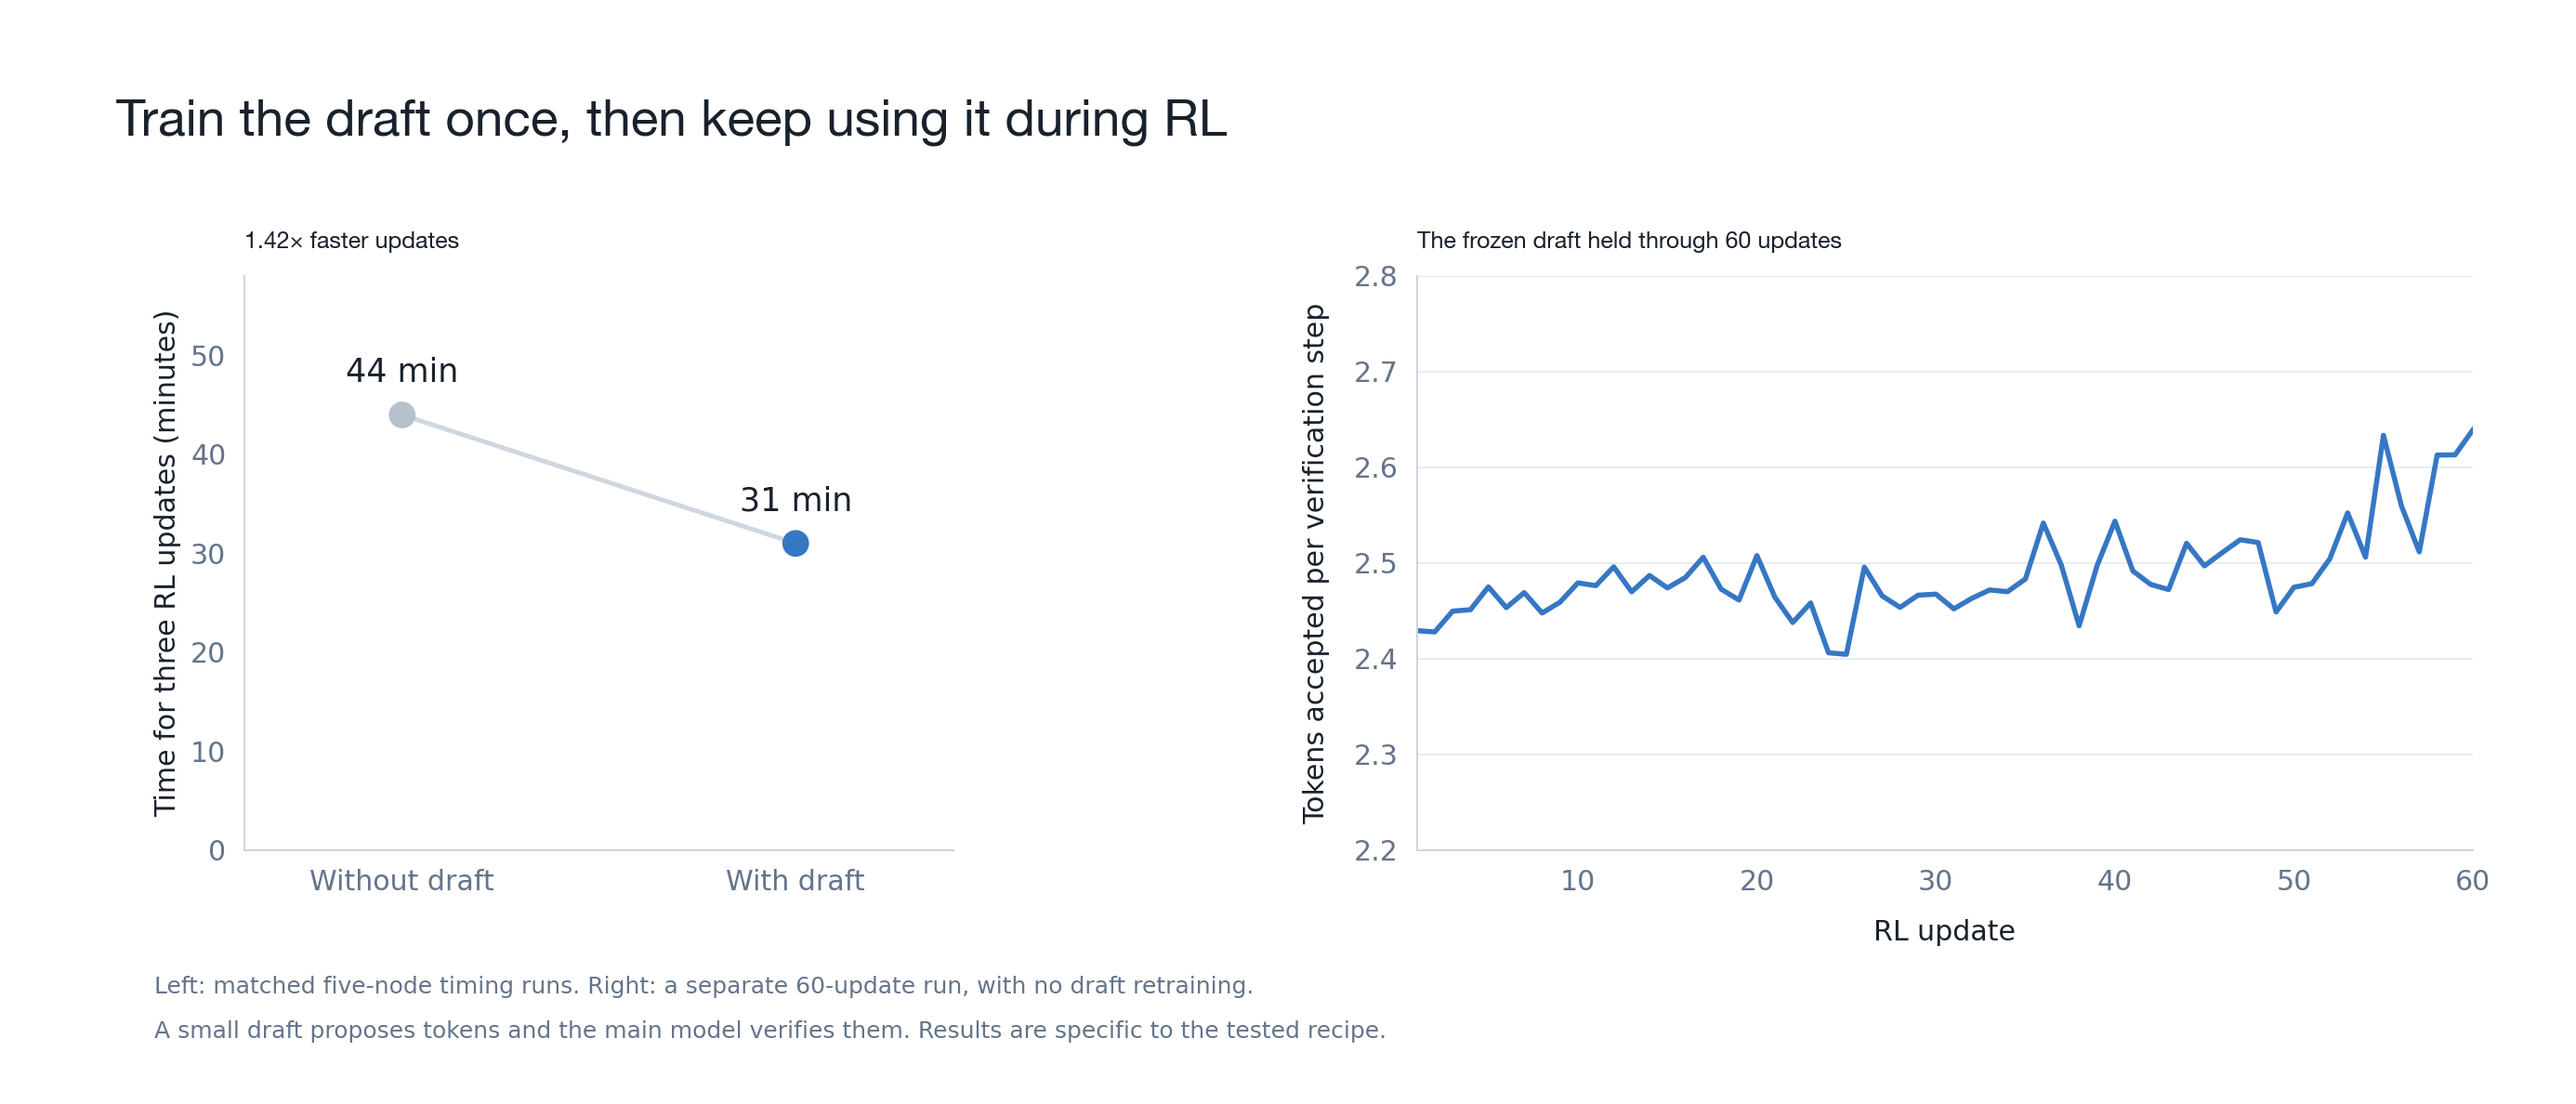
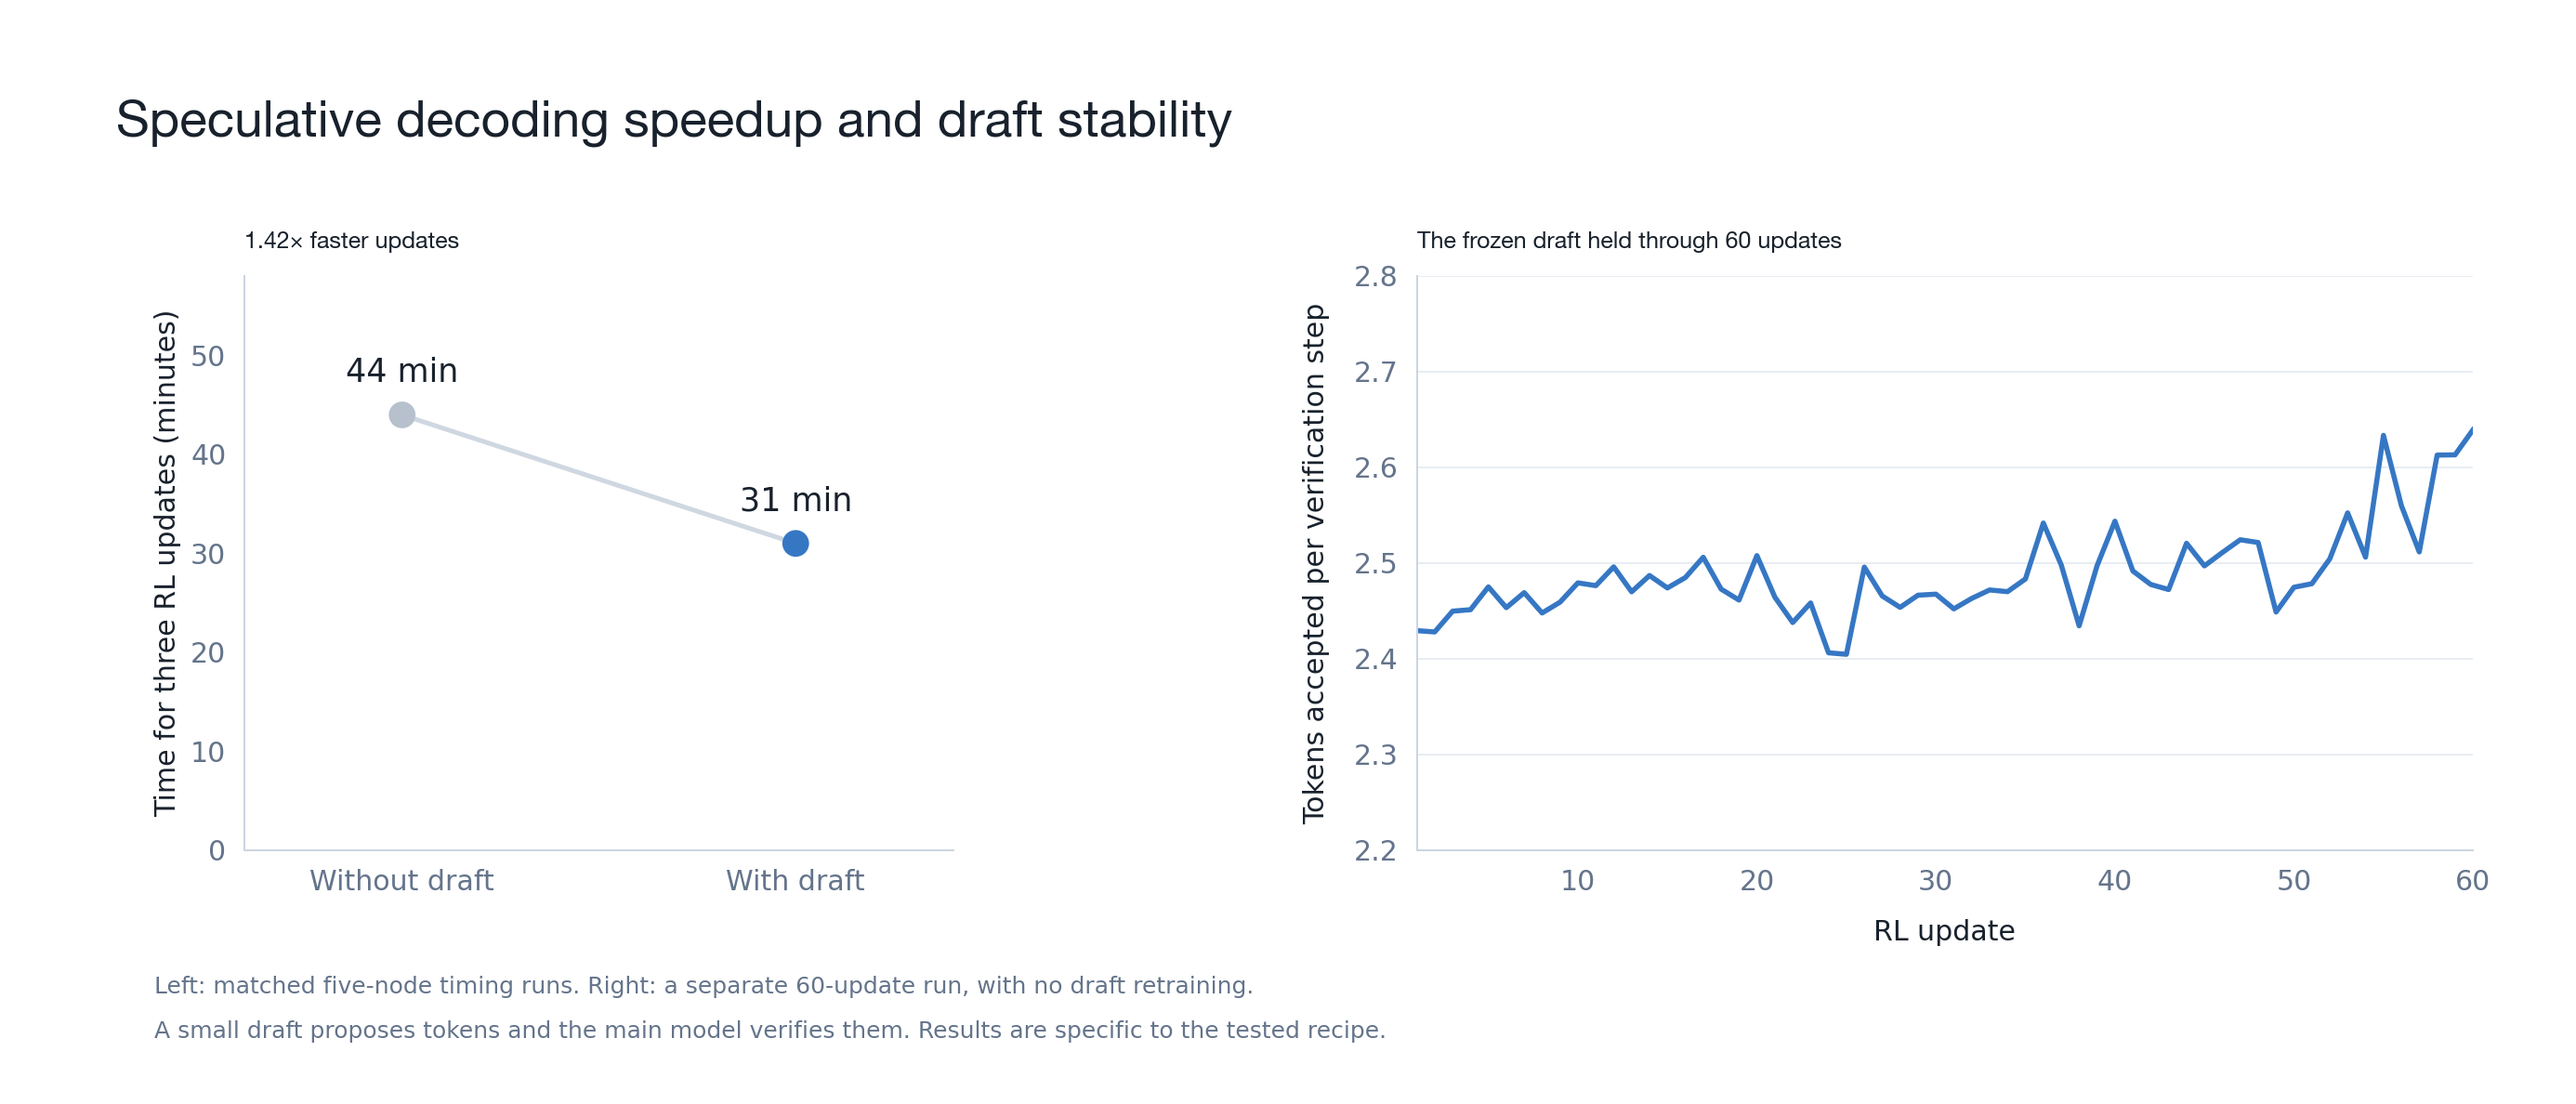
Use descriptive speculative decoding figure title

Changed region(s): [[0.031, 0.0934, 0.4964, 0.1246]]

diff --git a/scripts/render_snowball_speculative.py b/scripts/render_snowball_speculative.py
@@ -17,7 +17,7 @@ assert len(steps)==60 and min(steps)==1 and max(steps)==60
 ink,muted,grid,blue,gray='#18212C','#64748B','#E8EDF3','#3677C4','#B7C1CD'
 plt.rcParams.update({'font.family':'DejaVu Sans','font.size':12,'text.color':ink,'axes.labelcolor':ink,'xtick.color':muted,'ytick.color':muted,'axes.spines.top':False,'axes.spines.right':False,'axes.edgecolor':'#CBD5E1','savefig.facecolor':'white'})
 fig=plt.figure(figsize=(15.4,6.6),facecolor='white')
-fig.text(.045,.91,'Train the draft once, then keep using it during RL',ha='left',va='top',fontsize=22,fontproperties=TITLE_FONT)
+fig.text(.045,.91,'Speculative decoding speedup and draft stability',ha='left',va='top',fontsize=22,fontproperties=TITLE_FONT)
 l=fig.add_axes([.095,.23,.275,.52]);r=fig.add_axes([.55,.23,.41,.52])
 l.set_title('1.42× faster updates',loc='left',fontsize=15,fontproperties=TITLE_FONT,pad=12)
 r.set_title('The frozen draft held through 60 updates',loc='left',fontsize=15,fontproperties=TITLE_FONT,pad=12)

diff --git a/_posts/2026-10-21-turning-snowball-into-a-coding-agent.md b/_posts/2026-10-21-turning-snowball-into-a-coding-agent.md
@@ -186,7 +186,7 @@ Long agent rollouts also made each experiment expensive. The pre-RL probe suppli
 The same frozen draft remained effective through 60 RL updates, with no decline in accepted tokens per verification step. At update 36, 86% of Snowball's weights were still bit-identical to the starting checkpoint. This limited weight movement offers one explanation for the stable acceptance. [NeMo RL's experiments](https://arxiv.org/html/2604.26779#S3.SS3) likewise found little benefit from online draft updates when the draft was already trained on the policy's in-domain outputs.
 
 <figure class="research-figure">
-<a href="{{ '/assets/img/snowball/speculative-decoding.png?v=aligned-type' | relative_url }}"><img src="{{ '/assets/img/snowball/speculative-decoding.png?v=aligned-type' | relative_url }}" alt="A frozen speculative-decoding draft accelerated RL updates and maintained acceptance through 60 updates." width="2772" height="1188" loading="lazy"></a>
+<a href="{{ '/assets/img/snowball/speculative-decoding.png?v=descriptive-title' | relative_url }}"><img src="{{ '/assets/img/snowball/speculative-decoding.png?v=descriptive-title' | relative_url }}" alt="A frozen speculative-decoding draft accelerated RL updates and maintained acceptance through 60 updates." width="2772" height="1188" loading="lazy"></a>
 <figcaption>The timing comparison and the 60-update acceptance trace come from separate experiments. A frozen draft holding here does not establish that it will hold under every RL recipe.</figcaption>
 </figure>
 
